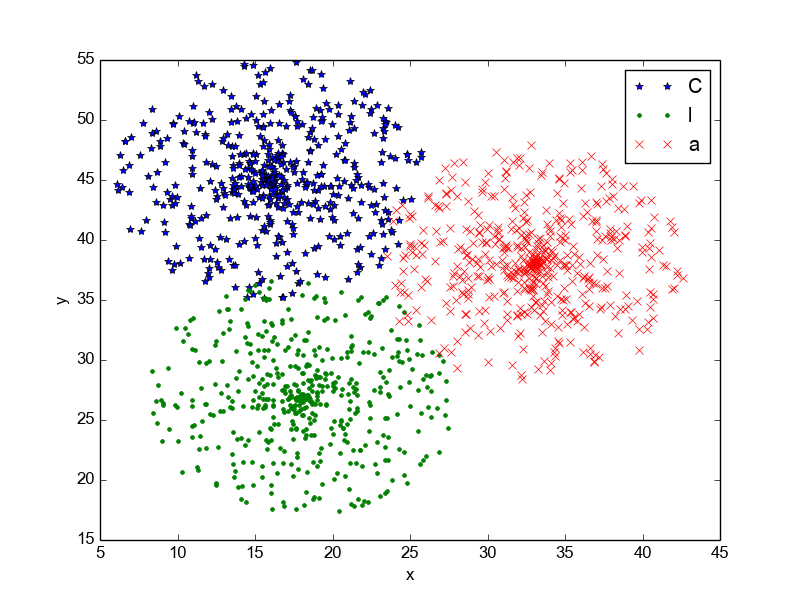
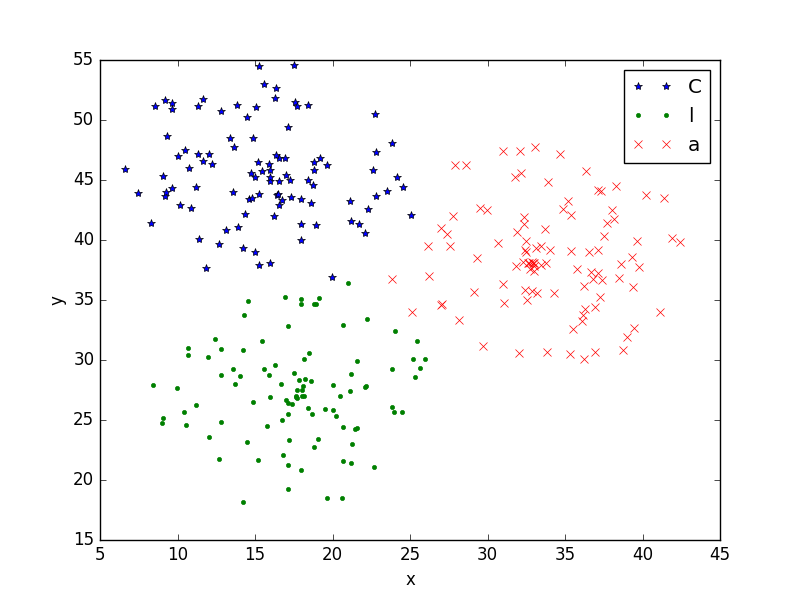
update model and test

diff --git a/hlnn.py b/hlnn.py
@@ -17,21 +17,25 @@ import numpy as np
 def sigmoid(x):
     return 1.0/(1.0+np.exp(-x))
 
+def argsig(x):
+    return -1.0*np.log(1.0/x-1)
+
 def unify(x):
-    m = x.max()
-    if m==0:
-        return x
-    else:
-        return 1.0*x/m
+    return np.ones(len(x))
+    #m = x.min()
+    #low =1e-6
+    #return (m+low)/(x+low)
 
 class HLNN:
     def __init__(self):
         self.layers = 0
         self.net_dim = []
-        self.som_eta = 0.5
-        self.som_rad = 3
+        self.som_eta = 0.2
+        self.som_rad = 1
         self.som_dec = 0.2
-        self.bp_eta = 0.5
+        self.bp_eta = 0.3
+        self.inputscale = 1.0
+        self.outputscale = 1.0
         #self.bp_coe = 0.5
         print 'Creating new instance of HLNN model'
 
@@ -52,8 +56,9 @@ class HLNN:
         self.som_dec = som_dec
     def set_bp_eta(self, bp_eta):
         self.bp_eta = bp_eta
-    #def set_bp_coe(self, bp_coe):
-    #    self.bp_coe = bp_coe
+    def set_scale(self, inputscale, outputscale):
+        self.inputscale = inputscale
+        self.outputscale = outputscale
 
     def build_model(self):
         # check if the dim is legal
@@ -95,10 +100,11 @@ class HLNN:
         if len(data) != self.net_dim[0]:
             print "Error: input data dimension is ILLEGAL!"             
             return         
-        # run unsupervised learning first         
-        self.inputlayer[0] = sigmoid(data)
+        # run unsupervised learning first
+        self.inputlayer[0] = data/self.inputscale
         self.somlayer = np.abs(self.som_conn-self.inputlayer.T).sum(axis=0)
-        mid = self.somlayer.argmax()
+        mid = self.somlayer.argmin()
+        som_error = self.somlayer.min()
         self.somlayer = unify(self.somlayer)
         self.som_conn[:,mid] += self.som_eta*(
             self.inputlayer[0]-self.som_conn[:,mid])
@@ -131,7 +137,8 @@ class HLNN:
         )
         # check if to do feedback procedure
         if feedback==[]:
-            return self.outputlayer
+            #print "output: ", self.outputlayer
+            return (self.outputlayer*self.outputscale, som_error)
         # feedback part
         if len(feedback) != self.net_dim[self.layers-1]:
             print "feedback is of wrong dimension!"
@@ -139,10 +146,9 @@ class HLNN:
         # back-propagation
         # whole error:
         # convert feedback vector into signal vector
-        feedback = sigmoid(feedback)
-        error = (self.outputlayer-feedback)
+        feedback = feedback/self.outputscale
+        error = self.outputlayer-feedback
         error = 0.5*(error*error).sum()
-        
         node_error = range(1, self.layers)
         for i in range(1, self.layers):
             node_error[i-1] = np.zeros([1, self.net_dim[i]])
@@ -153,15 +159,15 @@ class HLNN:
             node_error[i-1] = (node_error[i].dot(self.bp_conn[i].T))*(
                 1-self.hiddenlayer[i-1])*self.hiddenlayer[i-1]
         # correcting weight of connection
-        self.bp_conn[0] += self.bp_eta*self.inputlayer.T.dot(
+        self.bp_conn[0] -= self.bp_eta*self.inputlayer.T.dot(
             node_error[0])*self.somlayer
         for i in range(1, self.layers-1):
-            self.bp_conn[i] += self.bp_eta*self.hiddenlayer[i-1].T.dot(
+            self.bp_conn[i] -= self.bp_eta*self.hiddenlayer[i-1].T.dot(
                 node_error[i])
         # correcting bias of nodes
-        self.olayerbias += self.bp_eta*node_error[self.layers-2]
+        self.olayerbias -= self.bp_eta*node_error[self.layers-2]
         for i in xrange(0, self.layers-2):
-            self.hlayerbias[i] += self.bp_eta*node_error[i]
+            self.hlayerbias[i] -= self.bp_eta*node_error[i]
         return error
 
 # END OF FILE

diff --git a/main.py b/main.py
@@ -9,7 +9,7 @@ def main():
 	###############################################
 	# generate samples of test
 	###############################################
-	number = 500
+	number = 100
 	r = np.array([10, 10, 10])
 	c = np.array([
 		[16, 45],
@@ -39,19 +39,30 @@ def main():
 	##################################################
 	# applying model to test samples
 	##################################################
-	net.set_net_dim([2, 50, len(r)]);
+	net.set_net_dim([2, 10, 1]);
+	net.set_scale(100, 3)
 	net.build_model()
 	# prepare unsupervised and supervised data
-	unum = 3000 # unsupervised learning
-	snum = 500  # supervised learning
+	unum = 500 # unsupervised learning
+	snum = 200  # supervised learning
 	ulbl = np.random.randint(len(r), size=unum)
 	useq = np.random.randint(number, size=unum)
+	uerr = np.zeros(unum)
 	for i in xrange(unum):
 		v = np.array([
 			data[ulbl[i]][0][useq[i]],
 			data[ulbl[i]][1][useq[i]]
 			])
-		net.drive_model(v, []) # feedback=[] means no feedback
+		[uopt, uerr[i]] = net.drive_model(v, []) # feedback=[] means no feedback
+	# plot unsupervised error level
+	uerrfig = pl.figure()
+	pl.plot(xrange(unum), uerr, "-")
+	pl.xlabel("Iteration Time")
+	pl.ylabel("Unsupervised Error")
+	pl.legend("Unsupervised Learning Error Curve")
+	#pl.show()
+	pl.draw()
+	uerrfig.savefig("uerrfig")
 	print "Model unsupervised learning process done!"
 	# supervised learning
 	slbl = np.random.randint(len(r), size=snum)
@@ -62,32 +73,55 @@ def main():
 			data[slbl[i]][0][sseq[i]],
 			data[slbl[i]][1][sseq[i]]
 			])
-		f = np.zeros(len(r)) + 0.25
-		f[slbl[i]] = 0.75
-		serr[i] = net.drive_model(v, f)
+		serr[i] = net.drive_model(v, np.array([slbl[i]]))
 	# plot error figure
 	fig2 = pl.figure()
-	pl.plot(xrange(snum), serr)
-	pl.show()
+	pl.plot(xrange(snum), serr, "-")
+	#pl.show()
 	pl.draw()
 	fig2.savefig("error")
 	# check correctness
 	cnum = 100
 	clbl = np.random.randint(len(r), size=cnum)
 	cseq = np.random.randint(number, size=cnum)
-	crt = 0
+	plbl = np.random.randint(len(r), size=cnum)
 	for i in xrange(cnum):
 		v = np.array([
 			data[clbl[i]][0][cseq[i]],
 			data[clbl[i]][1][cseq[i]]
 			])
-		f = clbl[i]
-		p = np.argmax(net.drive_model(v, []))
-		if p==f:
-			crt += 1
-	print "correctness: ", 1.0*crt/cnum 
-
+		[opt, err] = net.drive_model(v, [])
+		print opt
+		plbl[i] = np.argmin(np.abs(np.arange(3)-opt))
+	crt = 0
+	cnt = np.zeros(len(r), 'int')
+	for i in xrange(cnum):
+		crt += bool(clbl[i]==plbl[i])
+		for t in xrange(len(r)):
+			cnt[t] += bool(plbl[i]==t)
+	print "correctness: ", 1.0*crt/cnum
+	print "couter: ", cnt
+	# draw preditced points
+	pdata = range(len(r))
+	for i in xrange(len(r)):
+		pdata[i] = np.zeros([2, cnt[i]])
+	cnt = np.zeros(len(r), 'int')
+	for i in xrange(cnum):
+		pdata[plbl[i]][0][cnt[plbl[i]]] = data[clbl[i]][0][cseq[i]]
+		pdata[plbl[i]][1][cnt[plbl[i]]] = data[clbl[i]][1][cseq[i]]
+		cnt[plbl[i]] += 1
+	pfig = pl.figure()
+	pl.plot(pdata[0][0], pdata[0][1], "*")
+	pl.plot(pdata[1][0], pdata[1][1], ".")
+	pl.plot(pdata[2][0], pdata[2][1], "x")
+	pl.legend("Prediction Result")
+	pl.xlabel("x")
+	pl.ylabel("y")
+	pl.draw()
+	pfig.savefig("prediction")
 
 
 if __name__ == '__main__':
 	main()
+
+# END OF FILE

diff --git a/som.py b/som.py
@@ -1,0 +1,14 @@
+# Traditional SOM model
+
+import numpy as np
+import matplotlib.pyplot as pl
+
+class SOM:
+	def __init__(self):
+		print 'Creating SOM model instance!'
+	def build_model(self, dim):
+		self.dim = dim
+		self.eta = 0.3
+		self.rad = 3
+		self.dec = 0.2
+		self.ilayer = 
